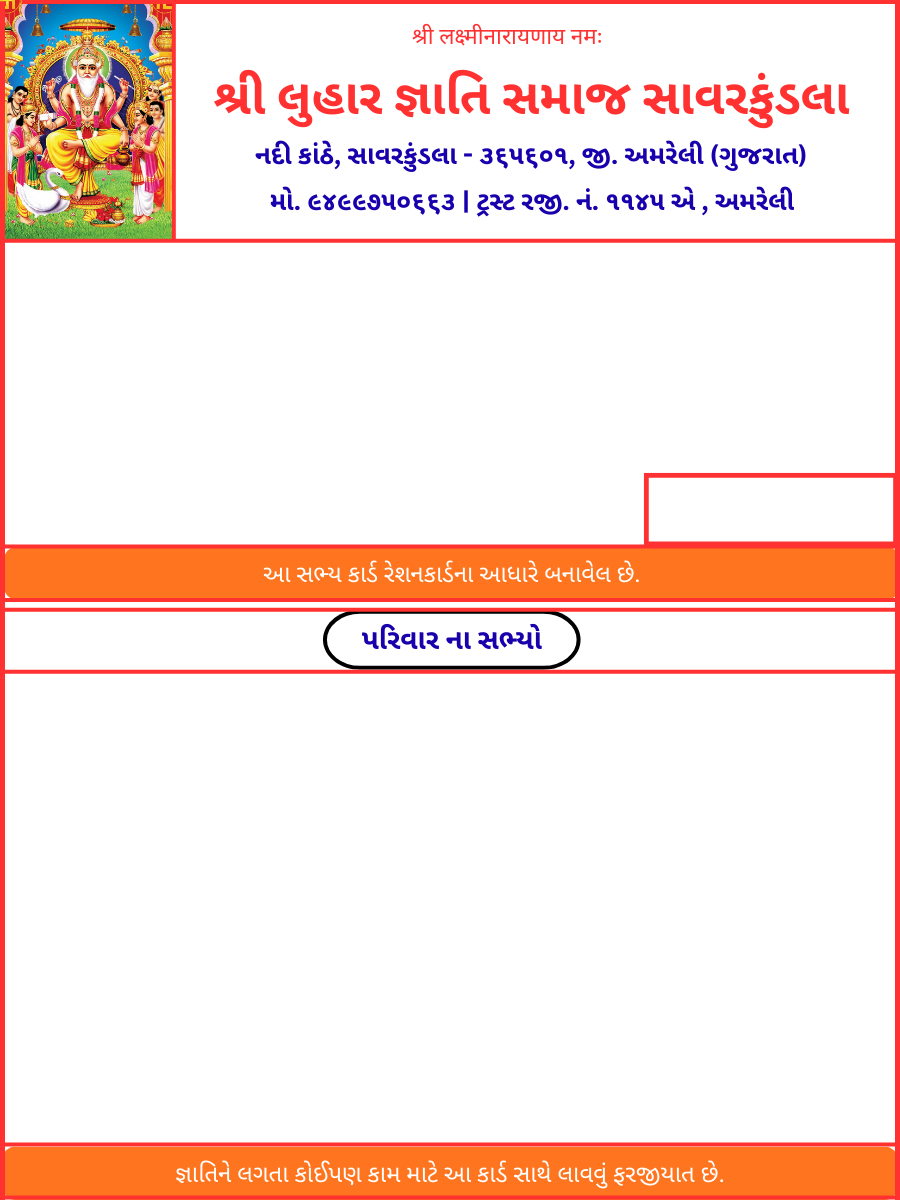
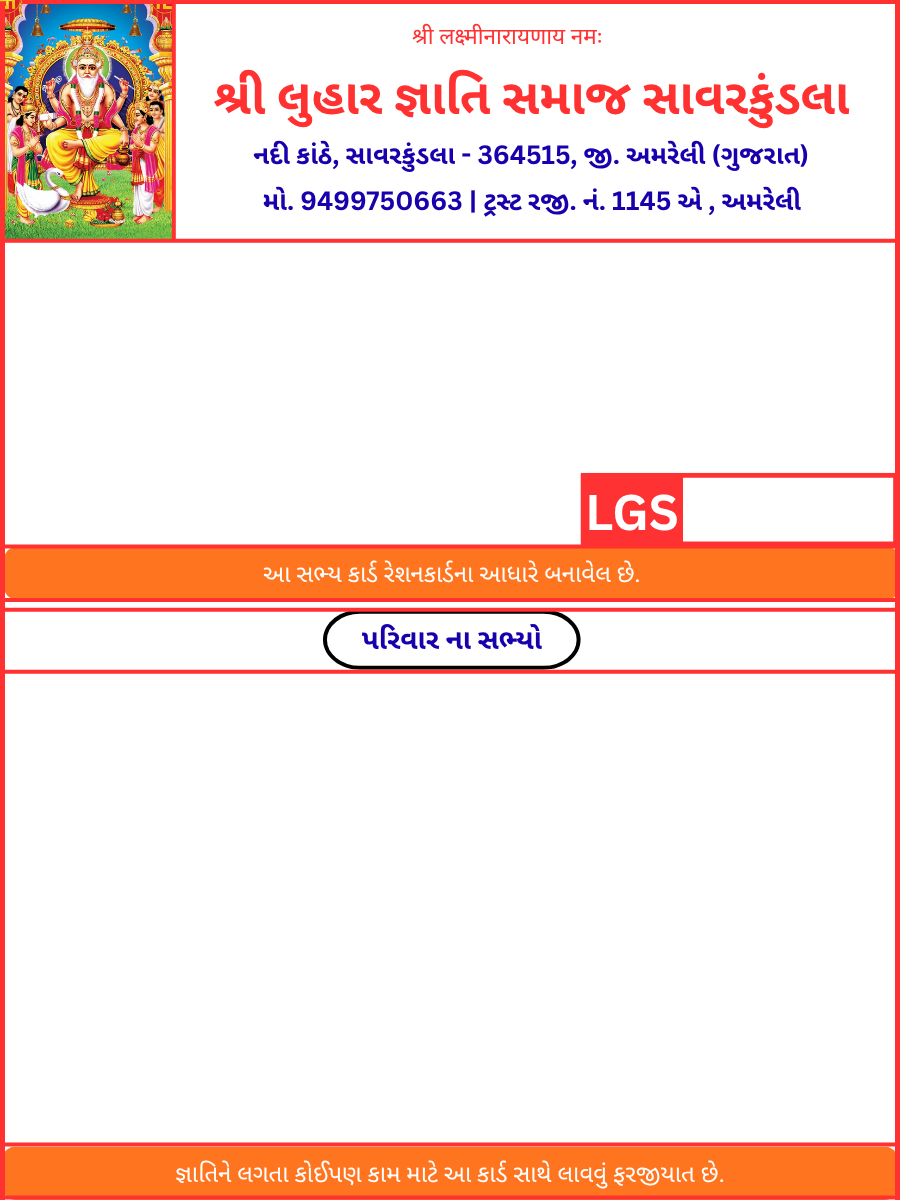
updated count at the member page for ot including head as total people also male and female count

Changed region(s): [[0.28, 0.1233, 0.9022, 0.185], [0.6222, 0.37, 0.7778, 0.4625]]

diff --git a/frontend/src/pages/Members.js b/frontend/src/pages/Members.js
@@ -108,16 +108,16 @@ export default function Members() {
         setFilteredMembers(results);
     }, [searchTerm, members]);
 
-    // Statistics for the FILTERED view (Top bar)
+    // Statistics for the FILTERED view (Top bar) - This still counts EVERYONE (head + family)
     const stats = useMemo(() => {
         const totalFamilies = filteredMembers.length;
         let totalPeople = 0;
         let maleCount = 0;
         let femaleCount = 0;
         filteredMembers.forEach(member => {
-            totalPeople += 1;
-            if (member.head?.gender === 'male') maleCount++;
-            if (member.head?.gender === 'female') femaleCount++;
+            // totalPeople += 1;
+            // if (member.head?.gender === 'male') maleCount++;
+            // if (member.head?.gender === 'female') femaleCount++;
             if (member.familyMembers && member.familyMembers.length > 0) {
                 totalPeople += member.familyMembers.length;
                 member.familyMembers.forEach(fm => {
@@ -129,16 +129,16 @@ export default function Members() {
         return { totalFamilies, totalPeople, maleCount, femaleCount };
     }, [filteredMembers]);
 
-    // Statistics for the EXCEL EXPORT (all members)
+    // Statistics for the EXCEL EXPORT (all members) - This still counts EVERYONE (head + family)
     const exportStats = useMemo(() => {
         const totalFamilies = members.length;
         let totalPeople = 0;
         let maleCount = 0;
         let femaleCount = 0;
         members.forEach(member => {
-            totalPeople += 1;
-            if (member.head?.gender === 'male') maleCount++;
-            if (member.head?.gender === 'female') femaleCount++;
+            // totalPeople += 1;
+            // if (member.head?.gender === 'male') maleCount++;
+            // if (member.head?.gender === 'female') femaleCount++;
             if (member.familyMembers && member.familyMembers.length > 0) {
                 totalPeople += member.familyMembers.length;
                 member.familyMembers.forEach(fm => {
@@ -177,17 +177,17 @@ export default function Members() {
             const ws_stats = XLSX.utils.json_to_sheet(statsData);
             const memberData = [];
             members.forEach(family => {
-                memberData.push({
-                    "યુનિક નંબર": family.uniqueNumber,
-                    "રેશન કાર્ડ નંબર": family.rationNo,
-                    "નામ": family.head?.name,
-                    "જાતિ": family.head?.gender,
-                    "ઉંમર": family.head?.age,
-                    "સંબંધ": "પોતે (કુટુંબના વડા)",
-                    "મોબાઈલ": family.mobile,
-                    "સરનામું": family.address,
-                    "ઝોન": family.zone?.name
-                });
+                // memberData.push({
+                //     "યુનિક નંબર": family.uniqueNumber,
+                //     "રેશન કાર્ડ નંબર": family.rationNo,
+                //     "નામ": family.head?.name,
+                //     "જાતિ": family.head?.gender,
+                //     "ઉંમર": family.head?.age,
+                //     "સંબંધ": "પોતે (કુટુંબના વડા)",
+                //     "મોબાઈલ": family.mobile,
+                //     "સરનામું": family.address,
+                //     "ઝોન": family.zone?.name
+                // });
                 family.familyMembers?.forEach(member => {
                     memberData.push({
                         "યુનિક નંબર": family.uniqueNumber,
@@ -356,15 +356,23 @@ export default function Members() {
                                     const isSelected = selectedMemberId === member._id;
                                     const isGenerating = generatingPdfId === member._id;
 
+                                    // 🔹 MODIFIED LOGIC START 🔹
+                                    // All counts (male, female, total) now *only* refer to familyMembers, excluding the head.
                                     let maleCount = 0;
                                     let femaleCount = 0;
-                                    if (member.head?.gender === 'male') maleCount++;
-                                    if (member.head?.gender === 'female') femaleCount++;
+
                                     member.familyMembers?.forEach(fm => {
-                                        if (fm.gender === 'male') maleCount++;
-                                        if (fm.gender === 'female') femaleCount++;
+                                        if (fm.gender === 'male') {
+                                            maleCount++;
+                                        }
+                                        if (fm.gender === 'female') {
+                                            femaleCount++;
+                                        }
                                     });
+
+                                    // This is the total of *only* family members.
                                     const totalFamily = maleCount + femaleCount;
+                                    // 🔹 MODIFIED LOGIC END 🔹
 
                                     return (
                                         <React.Fragment key={member._id}>
@@ -562,9 +570,9 @@ export default function Members() {
                 <DialogTitle>{currentMember ? 'સભ્ય સંપાદિત કરો' : 'નવો સભ્ય ઉમેરો'}</DialogTitle>
                 <DialogContent dividers>
                     {/* 🔹 NOTE: You MUST update MemberForm.js 
-                      It now needs to:
-                      1. Have a new TextField for 'Request Number'.
-                      2. Call onSubmit with TWO arguments: onSubmit(formData, requestNumber).
+                        It now needs to:
+                        1. Have a new TextField for 'Request Number'.
+                        2. Call onSubmit with TWO arguments: onSubmit(formData, requestNumber).
                     */}
                     <MemberForm onSubmit={handleSubmit} memberToEdit={currentMember} loading={false} error={null} />
                 </DialogContent>

diff --git a/backend/services/pdf-service.js b/backend/services/pdf-service.js
@@ -84,37 +84,40 @@ async function generateCard(memberId) {
     const registrationYear = member.createdAt ? new Date(member.createdAt).getFullYear() : '';
     doc.font('bold').fontSize(35).fillColor('white').text(registrationYear, 780, 25);
 
-    // --- MODIFICATION START ---
-    // Manually render Zone (Blue) / Unique Number (Red) to be centered
+// --- MODIFICATION START ---
+    // Manually render Unique Number (Red) / Zone (Blue) to be centered
     
     // 1. Define the parts and box
-    const zonePart = `${member.zone?.number || ''} / `;
-    const uniquePart = `${member.uniqueNumber || member.cardId || '---'}`;
-    const x1 = 590, y1 = 491, x2 = 885, y2 = 535; // The box to center within
+    // Swapped order and moved the " / "
+    const uniquePart = `${member.uniqueNumber || member.cardId || '---'} / `;
+    const zonePart = `${member.zone?.number || ''}`;
+    
+    const x1 = 650, y1 = 491, x2 = 885, y2 = 535; // The box to center within
     const boxWidth = x2 - x1;
     const boxHeight = y2 - y1;
     let fontSize = 36; // Initial font size
     doc.font('bold');
 
     // 2. Shrink font size if necessary to fit box
-    let totalWidth = doc.fontSize(fontSize).widthOfString(zonePart) + doc.widthOfString(uniquePart);
+    let totalWidth = doc.fontSize(fontSize).widthOfString(uniquePart) + doc.widthOfString(zonePart);
     while (totalWidth > boxWidth && fontSize > 6) {
       fontSize -= 1;
-      totalWidth = doc.fontSize(fontSize).widthOfString(zonePart) + doc.widthOfString(uniquePart);
+      totalWidth = doc.fontSize(fontSize).widthOfString(uniquePart) + doc.widthOfString(zonePart);
     }
 
     // 3. Calculate final positions
     const startX = x1 + (boxWidth - totalWidth) / 2; // Horizontal center
     const finalY = y1 + (boxHeight - fontSize) / 2; // Vertical center
-    const zonePartWidth = doc.fontSize(fontSize).widthOfString(zonePart);
+    // Get the width of the *first* part (now uniquePart)
+    const uniquePartWidth = doc.fontSize(fontSize).widthOfString(uniquePart); 
 
-    // 4. Render the two parts with different colors
-    doc.fillColor('blue').text(zonePart, startX, finalY, {
+    // 4. Render the two parts with different colors (interchanged)
+    doc.fillColor('red').text(uniquePart, startX, finalY, { // <-- Changed to red and uniquePart
       lineBreak: false,
-      continued: true // Use continued: true for the first part
+      continued: true 
     });
     
-    doc.fillColor('red').text(uniquePart, startX + zonePartWidth, finalY, {
+    doc.fillColor('blue').text(zonePart, startX + uniquePartWidth, finalY, { // <-- Changed to blue, zonePart, and uniquePartWidth
       lineBreak: false
     });
     // --- MODIFICATION END ---
